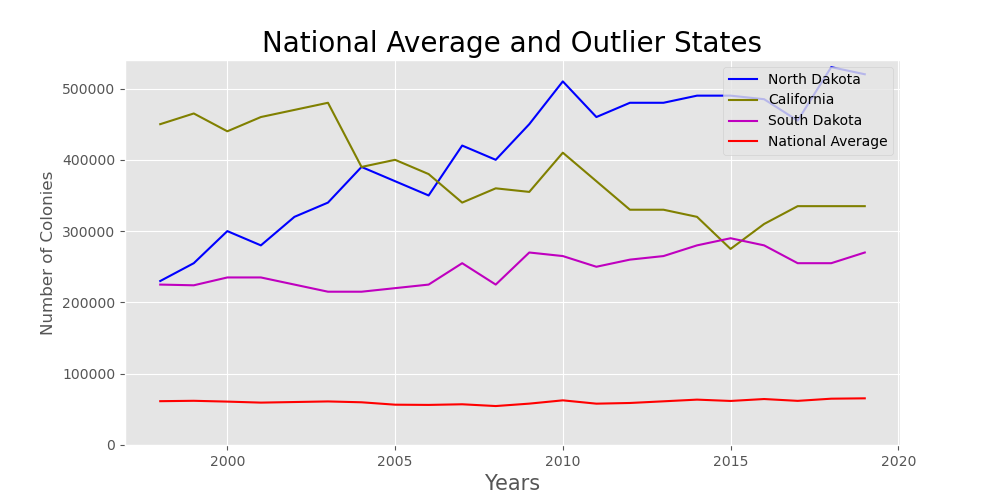
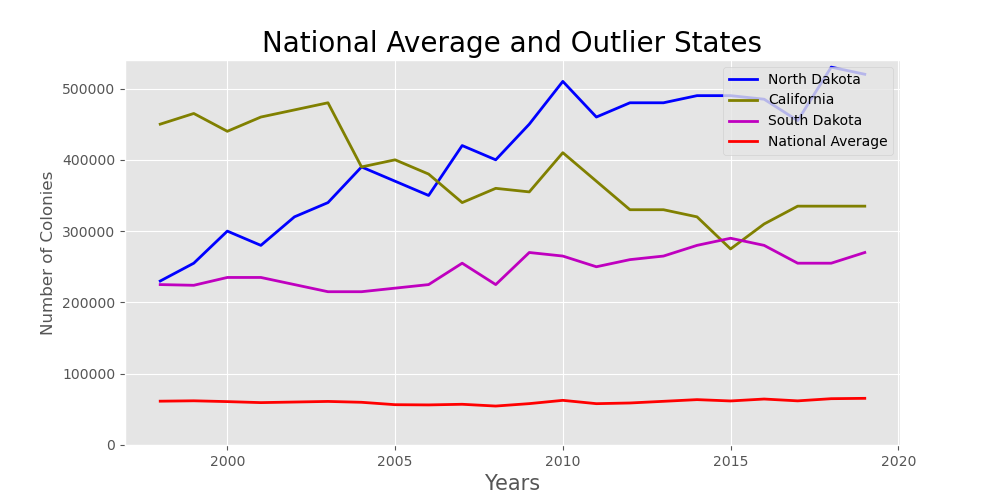
Writing of hypothesis section draft 1 complete

diff --git a/src/graphing.py b/src/graphing.py
@@ -88,10 +88,10 @@ def avg_vs_large(df):
     ca = df[df['state'] == 'CA']
     sd = df[df['state'] == 'SD']
     fig, ax = plt.subplots(figsize=(10,5))
-    ax.plot(nd['year'], nd['numcol'], label='North Dakota', color='b')
-    ax.plot(ca['year'], ca['numcol'], label='California', color='olive')
-    ax.plot(sd['year'], sd['numcol'], label='South Dakota', color='m')
-    ax.plot(avgs['year'], avgs['numcol'], label='National Average', color='r')
+    ax.plot(nd['year'], nd['numcol'], label='North Dakota', color='b', linewidth=2)
+    ax.plot(ca['year'], ca['numcol'], label='California', color='olive', linewidth=2)
+    ax.plot(sd['year'], sd['numcol'], label='South Dakota', color='m', linewidth=2)
+    ax.plot(avgs['year'], avgs['numcol'], label='National Average', color='r', linewidth=2)
     ax.set_ylim(0,540000)
     ax.set_title('National Average and Outlier States', fontsize=20)
     ax.set_xlabel('Years', fontsize=15)

diff --git a/README.md b/README.md
@@ -39,7 +39,16 @@ Looking at these a few things caught my attention. Firstly while there does seem
 And we can immediately see that they are outliers to put it mildly. At the lowest point in South Dakota's hit still had roughly 3 times as many colonies as the national average. While good news on whole, knowing that CCD hasn't been more than a speed bump to the growth in ND and SD and only a slight contributor to the general decline in CA, these incredibly high numbers are going to pose a challenge in trying to see if the rest of the country has recovered.
 
 ## Hypothesis Testing
-Run through bootstrap methodology and arrive at a p-value that doesn't allow us to reject the null hypothesis.
+Well our first step, as always with hypothesis testing, is to come up with some hypotheses. In particular our null and alternative:
+<p align='center'>
+<b>H<sub>0</sub>: Our current &mu; = Our lowest &mu; <br>
+H<sub>A</sub>: Our current &mu; > Our lowest &mu; </b>
+</p>
+To quickly summarize we're starting with a null hypothesis that the average of our current population is actually the same as it was in 2008, at our lowest point in the dataset. Our alternative is that our current population average is actually higher. In our final step before collecting data we'll select an alpha value of .05, mainly because it's good standard and I want to feel confident in the result.
+
+Now in order to test this we'll need to find estimations of the population average for 2008 and 2019 as well as the variance of that estimation in 2008. Since we're working with essentially a single sample for each year with a sample size of 39 we'll have to rely on [bootstrapping](https://en.wikipedia.org/wiki/Bootstrapping_%28statistics%29) for those estimations. Our final consideration before doing that analysis though has to be the outliers we discovered earlier. Seeing as they are so distant from the mean, and also represent states that barely felt the effects of CCD we're going to be discounting them to focus on the recovery of the rest of the country.
+
+The exact process can be found in src/hypothesis_testing.py but in short 10*6 resamples were taken from our 2008 and 2019 and means were compared leading to a p-Value of .08. While close this doesn't reach the threshold we set and as such we can't reject our null hypothesis.
 
 ## The Honey Industry
 Run through visualizations of honey production metrics, show the strong correlation between price and total value and the non-existent correlation elsewhere. Look into honey industry reports for some kind of explanation or elaboration.
